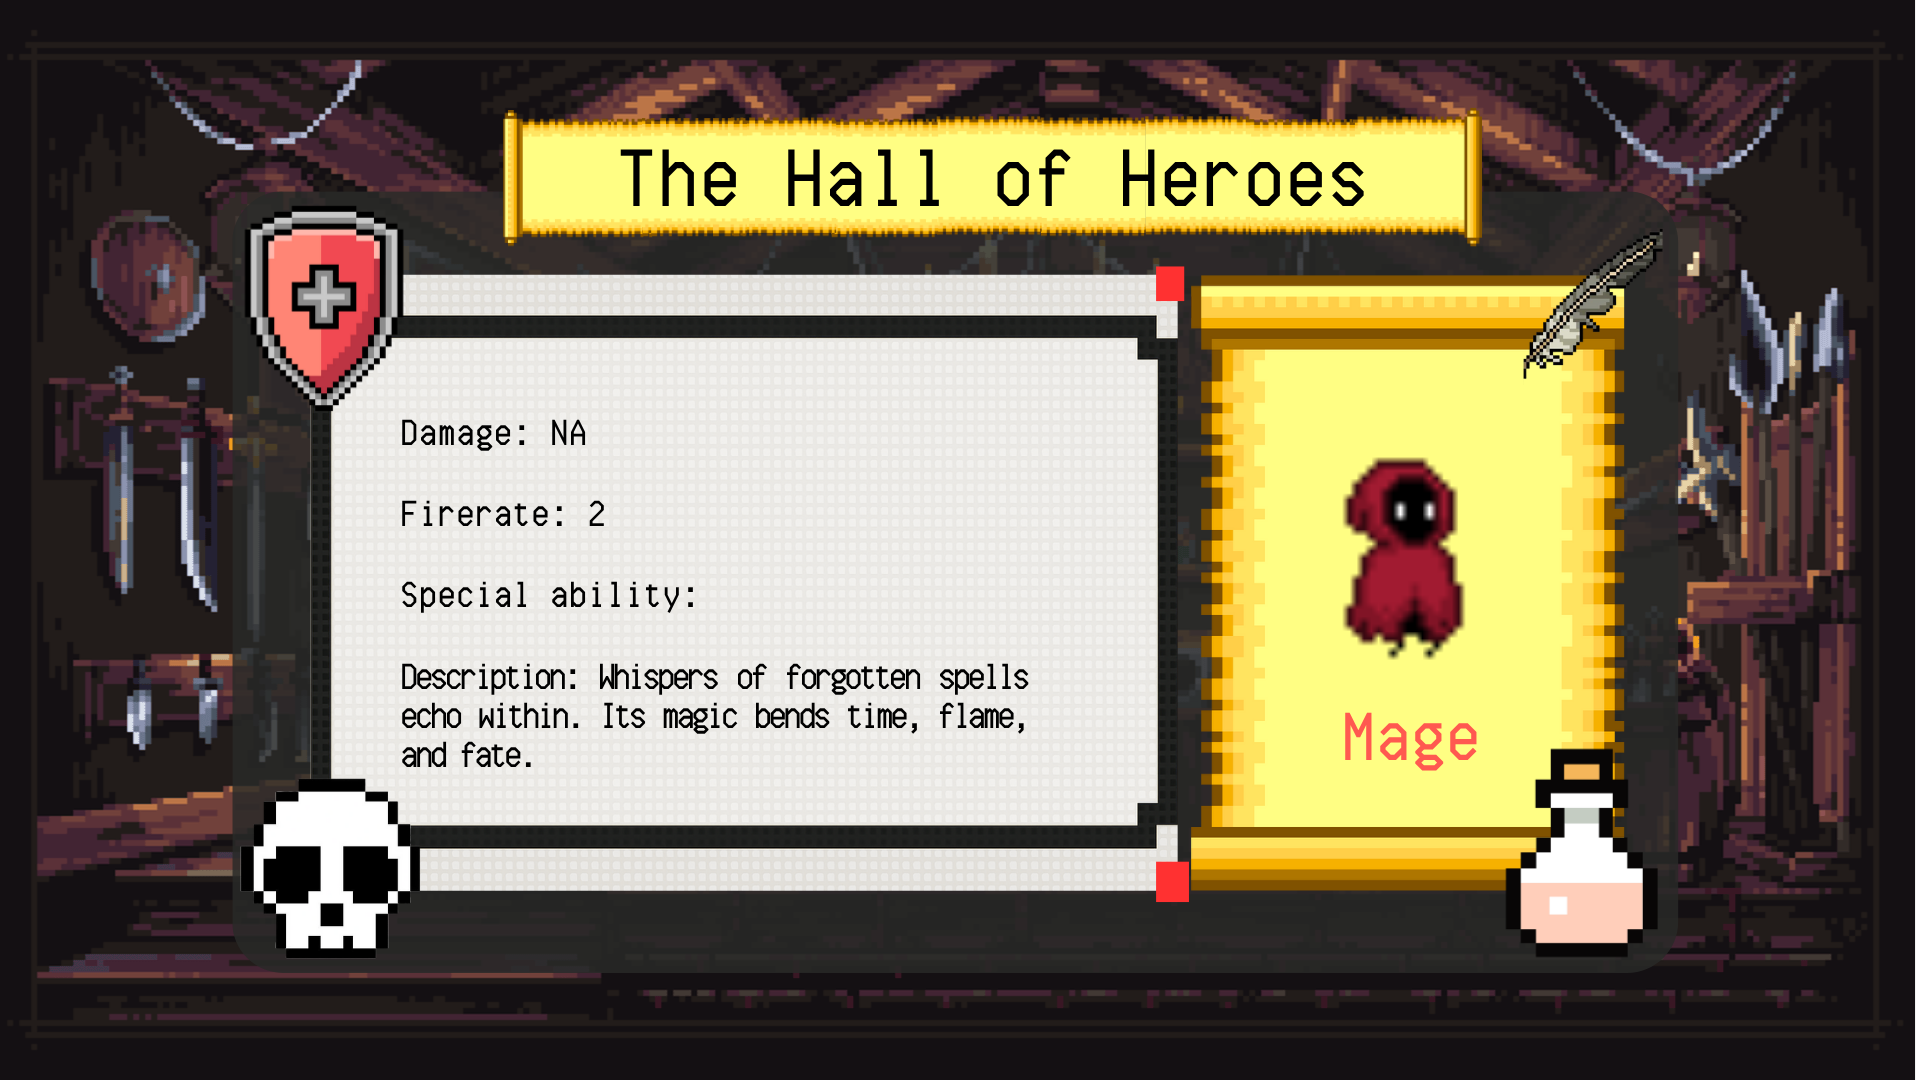
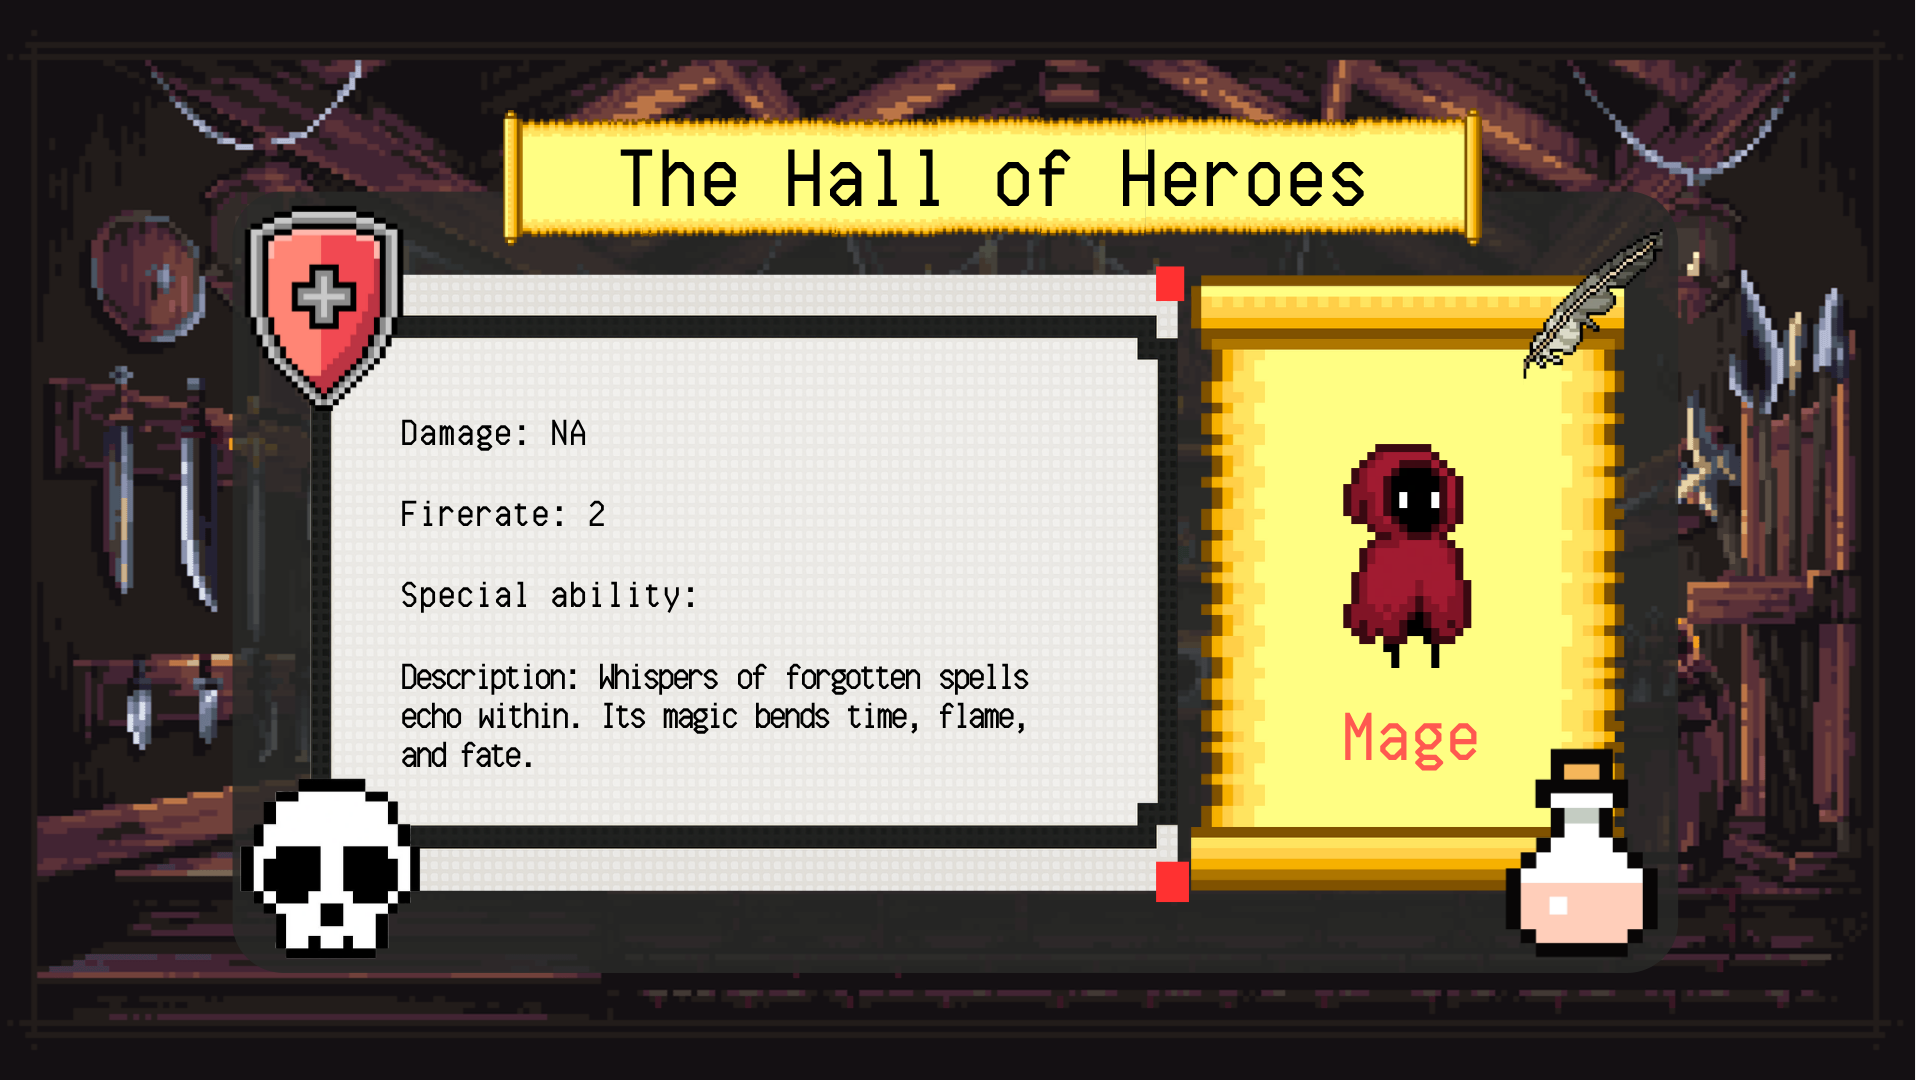
add coin

Changed region(s): [[0.6875, 0.3972, 0.7812, 0.6111]]

diff --git a/Tower-Defense-HCMUS-K24/src/SrcGameStates/GamePlay.cpp b/Tower-Defense-HCMUS-K24/src/SrcGameStates/GamePlay.cpp
@@ -31,6 +31,7 @@
 #include <fstream>
 #include <sstream>
 #include <iostream>
+EntityID moneyTextId = INVALID_ENTITY;
 
 GamePlay::GamePlay(const std::string& mapFilename) : mapFilename(mapFilename) {}
 
@@ -89,6 +90,23 @@ void GamePlay::onEnter(World& world)
 	TextComponent towerHeaderText(headerText, 32, fontPath, sf::Color::White, { 1750.f, 120.f }, true, sf::Color::Black, 5.f);
 	world.addComponent(towerHeader, towerHeaderText);
 
+    //money
+   
+    moneyTextId = world.createEntity();
+    registerEntity(moneyTextId);
+
+    std::string moneyStr = std::to_string(money);
+    TextComponent moneyText(moneyStr,70, fontPath, sf::Color::Yellow, { 95.f, 20.f }, true, sf::Color::Black, 4.f);
+    world.addComponent(moneyTextId, moneyText);
+
+    // coin Icon
+    EntityID coinIcon = world.createEntity();
+    registerEntity(coinIcon);
+    const string coinPath = "assets/Icon/Coin.png";
+    SpriteComponent coinSprite(coinPath, { 0.f, 5.f }, { 0.28f, 0.28f });
+    world.addComponent(coinIcon, coinSprite);
+
+
     //tower icon
     spawnTowerIcons(world);
     
@@ -97,7 +115,7 @@ void GamePlay::onEnter(World& world)
     EntityID exitButton = world.createEntity();
     registerEntity(exitButton);
     const string buttonPath = "assets/Icon/Left/B_Button68.png";
-    SpriteComponent spriteComp1(buttonPath, { 0.f, 0.f }, { 5.f, 5.f });
+    SpriteComponent spriteComp1(buttonPath, { 0.f, 980.f }, { 5.f, 5.f });
     spriteComp1.onClick = [](EntityID entityId, World& world)
         {
             std::cout << "[Exit Button] Clicked\n";
@@ -201,16 +219,24 @@ void GamePlay::handleEvent(World& world, sf::Event& event)
             EntityID tower = world.createEntity();
             TowerComponent towerComp(mousePos.x, mousePos.y, placingType, placingLevel);
             world.addComponent(tower, towerComp);
-            // Add a sprite for the tower
-            std::string spritePath = TowerComponent::getSpritePath(placingType, placingLevel);
-            const TowerDef& def = TowerComponent::getTowerDef(placingType);
-            float scale = def.scale[placingLevel];
-            SpriteComponent towerSprite(spritePath, mousePos, {scale, scale}); 
-            sf::FloatRect bounds = towerSprite.sprite.getLocalBounds();
-            towerSprite.sprite.setOrigin(bounds.width / 2.f, bounds.height / 2.f);
-            world.addComponent(tower, towerSprite);
-            isPlacingTower = false; // Exit placement mode
-            std::cout << "Placed tower at: " << mousePos.x << ", " << mousePos.y << std::endl;
+            if (money >= towerComp.cost)
+            {
+                // Add a sprite for the tower
+                std::string spritePath = TowerComponent::getSpritePath(placingType, placingLevel);
+                const TowerDef& def = TowerComponent::getTowerDef(placingType);
+                float scale = def.scale[placingLevel];
+                SpriteComponent towerSprite(spritePath, mousePos, { scale, scale });
+                sf::FloatRect bounds = towerSprite.sprite.getLocalBounds();
+                towerSprite.sprite.setOrigin(bounds.width / 2.f, bounds.height / 2.f);
+                world.addComponent(tower, towerSprite);
+                money -= towerComp.cost;
+                isPlacingTower = false; // Exit placement mode
+                std::cout << "Placed tower at: " << mousePos.x << ", " << mousePos.y << std::endl;
+            }
+            else
+            {
+                //Caution ??
+            }
         }
     }
 }
@@ -225,6 +251,7 @@ void GamePlay::update(World& world, float dt)
     if (enemiesToSpawn == 0 && currentWave < static_cast<int>(waveSizes.size()) && spawnTimer >= waveInterval)
     {
         spawnWave(world);
+        money += moneyPerWave;
 		cout << "[GamePlay] Spawning wave " << currentWave << " with " << waveSizes[currentWave] << " enemies.\n";
         
     }
@@ -279,6 +306,12 @@ void GamePlay::update(World& world, float dt)
             auto& sprite = world.getComponent<SpriteComponent>(towerId);
             sprite.sprite.setRotation(angleDeg);
         }
+    }
+
+    // update money
+    if (world.hasComponent<TextComponent>(moneyTextId)) {
+        auto& text = world.getComponent<TextComponent>(moneyTextId);
+        text.setString(std::to_string(money));
     }
 }
 
@@ -348,7 +381,9 @@ void GamePlay::spawnTowerIcons(World& world)
     {
         for (int lv = 0; lv < 2; ++lv)
         {
-
+            // Add cost for each tower
+            string cost = "20";
+            //
             EntityID iconEntity = world.createEntity();
             registerEntity(iconEntity);
 
@@ -359,30 +394,51 @@ void GamePlay::spawnTowerIcons(World& world)
             if(def.type == TowerComponent::TowerType::Archer && lv == 1)
             {
                 iconScale = 3.0f;
+                cost = "30";
 			}
 
             if (def.type == TowerComponent::TowerType::Mage && lv == 0)
             {
                 iconScale = 3.9f;
+                cost = "30";
             }
 
             if (def.type == TowerComponent::TowerType::Mage && lv == 1)
             {
                 iconScale = 2.6f;
+                cost = "40";
 			}
 
             if (def.type == TowerComponent::TowerType::Cannon && lv == 0)
             {
                 iconScale = 1.0f;
+                cost = "40";
             }
 
             if (def.type == TowerComponent::TowerType::Cannon && lv == 1)
             {
                 iconScale = 1.4f;
+                cost = "50";
             }
 
-            sf::Vector2f pos{ frameX + paddingX + spacingX * float(lv), frameY + paddingY + spacingY * float(idx) };
+            
 
+            // add cost sprite for each tower
+            sf::Vector2f posCost{ frameX + paddingX + spacingX * float(lv) + 55, frameY + paddingY + spacingY * float(idx) + 135 };
+            EntityID costTextId = world.createEntity();
+            registerEntity(costTextId);
+            const string fontPath = "assets/Font/Minecraft-Regular.otf";
+            TextComponent costText(cost, 28, fontPath, sf::Color::Yellow, posCost, true, sf::Color::Black, 2.5f);
+            world.addComponent(costTextId, costText);
+
+            sf::Vector2f posCoin{ frameX + paddingX + spacingX * float(lv) + 7, frameY + paddingY + spacingY * float(idx) + 128 };
+            EntityID coinIcon = world.createEntity();
+            registerEntity(coinIcon);
+            const string coinPath = "assets/Icon/Coin.png";
+            SpriteComponent coinSprite(coinPath, posCoin, { 0.12f, 0.12f });
+            world.addComponent(coinIcon, coinSprite);
+            //
+            sf::Vector2f pos{ frameX + paddingX + spacingX * float(lv), frameY + paddingY + spacingY * float(idx) };
             string iconPath = TowerComponent::getSpritePath(def.type, lv);
             iconComp.sprite = SpriteComponent(iconPath, pos, { iconScale, iconScale });
             iconComp.sprite.onClick = [this, def, lv](EntityID entityId, World& world) 

diff --git a/Tower-Defense-HCMUS-K24/src/SrcGameStates/Resource.cpp b/Tower-Defense-HCMUS-K24/src/SrcGameStates/Resource.cpp
@@ -21,7 +21,9 @@ void Resource::onEnter(World& world)
             "assets/ResourceSlides/slide1.png",
             "assets/ResourceSlides/slide2.png",
             "assets/ResourceSlides/slide3.png",
-            "assets/ResourceSlides/slide4.png"
+            "assets/ResourceSlides/slide4.png",
+            "assets/ResourceSlides/slide5.png",
+            "assets/ResourceSlides/slide6.png"
     };
 
     currentSlide = 0;
@@ -69,7 +71,11 @@ void Resource::onEnter(World& world)
             std::cout << "[Left Button] Clicked\n";
             auto& sound = world.getComponent<SoundComponent>(entityID);
             sound.sound->play();
-            if (currentSlide > 0) currentSlide--;
+            if (currentSlide <= 0) currentSlide = slides.size() - 1;
+            else
+            {
+                currentSlide--;
+            }
             updateSlide(world);
         };
     world.addComponent(leftButton, spriteLeftButton);
@@ -85,7 +91,11 @@ void Resource::onEnter(World& world)
             std::cout << "[Right Button] Clicked\n";
             auto& sound = world.getComponent<SoundComponent>(entityID);
             sound.sound->play();
-            if (currentSlide < slides.size() - 1) currentSlide++;
+            if (currentSlide >= slides.size() - 1) currentSlide = 0;
+            else
+            {
+                currentSlide++;
+            }
             updateSlide(world);
         };
     world.addComponent(rightButton, spriteRightButton);

diff --git a/Tower-Defense-HCMUS-K24/header/Components/TowerDef.h b/Tower-Defense-HCMUS-K24/header/Components/TowerDef.h
@@ -18,12 +18,15 @@ struct TowerDef
     float projectileRadius;    // for circle collision
     float projectileLength;    // for OBB (arrows)
     float scale[2];
+
+    //cost
+    int cost[2];
 };
 
 static constexpr TowerDef TOWER_DEFS[] = 
 {
-    //           type                 fireRate       projSpeed        damage         range       projRad  projLen
-    { TowerComponent::TowerType::Archer, {1.0f, 1.2f},  {300.0f, 350.0f},  {10.0f, 15.0f}, {200.0f, 220.0f}, 5.0f,    14.0f, {3.5f, 2.5f} },
-    { TowerComponent::TowerType::Mage,   {0.8f, 1.0f},  {250.0f, 300.0f},  {20.0f, 30.0f}, {180.0f, 200.0f}, 6.0f,     0.0f, {2.5f, 2.5f} },
-    { TowerComponent::TowerType::Cannon, {0.5f, 0.7f},  {200.0f, 250.0f},  {50.0f, 75.0f}, {220.0f, 240.0f}, 8.0f,     0.0f, {1.0f, 1.0f} },
+    //           type                 fireRate       projSpeed        damage         range       projRad  projLen                               cost
+    { TowerComponent::TowerType::Archer, {1.0f, 1.2f},  {300.0f, 350.0f},  {10.0f, 15.0f}, {200.0f, 220.0f}, 5.0f,    14.0f, {3.5f, 2.5f},      {20, 30} },
+    { TowerComponent::TowerType::Mage,   {0.8f, 1.0f},  {250.0f, 300.0f},  {20.0f, 30.0f}, {180.0f, 200.0f}, 6.0f,     0.0f, {2.5f, 2.5f},      {30, 40} },
+    { TowerComponent::TowerType::Cannon, {0.5f, 0.7f},  {200.0f, 250.0f},  {50.0f, 75.0f}, {220.0f, 240.0f}, 8.0f,     0.0f, {1.0f, 1.0f},      {40, 50} },
 };

diff --git a/Tower-Defense-HCMUS-K24/header/Components/TowerComponent.h b/Tower-Defense-HCMUS-K24/header/Components/TowerComponent.h
@@ -10,7 +10,6 @@ struct TowerDef;
 struct TowerComponent 
 {
     enum class TowerType : uint8_t { Archer = 0, Mage, Cannon };
-
     // Upgrade level: 0 = base, 1 = upgraded
     uint8_t     level = 0;
     TowerType   type = TowerType::Archer;
@@ -27,6 +26,7 @@ struct TowerComponent
     float       projectileRadius = 0.0f;
     float       projectileLength = 0.0f;
     float       lastShotTimer = 0.0f;
+    int         cost = 0;
 
     // Current target (entity ID)
     EntityID    target = INVALID_ENTITY;

diff --git a/Tower-Defense-HCMUS-K24/header/GameStates/GamePlay.h b/Tower-Defense-HCMUS-K24/header/GameStates/GamePlay.h
@@ -38,6 +38,13 @@ private:
     float enemySpawnInterval = 1.2f; // seconds between enemies
     std::vector<sf::Vector2f> currentWavePath;
 
+
+
+    //money control
+    int money = 0;
+    int moneyPerWave = 100;
+
+
 public:
     // construct by map filename or by index
     explicit GamePlay(const std::string& mapFilename);

diff --git a/Tower-Defense-HCMUS-K24/src/SrcComponents/TowerComponent.cpp b/Tower-Defense-HCMUS-K24/src/SrcComponents/TowerComponent.cpp
@@ -20,6 +20,7 @@ void TowerComponent::loadStats()
     projectileRadius = def.projectileRadius;
     projectileLength = def.projectileLength;
     lastShotTimer = 0.0f;
+    cost = def.cost[level];
 }
 
 const TowerDef& TowerComponent::getTowerDef(TowerType t)

diff --git a/Tower-Defense-HCMUS-K24/header/Components/UITextComponent.h b/Tower-Defense-HCMUS-K24/header/Components/UITextComponent.h
@@ -23,4 +23,5 @@ struct TextComponent
 	bool contains(Vector2f point) const;
 	bool tryClick(Vector2f mousePos, EntityID entityId, World& world);
 	void tryHover(Vector2f mousePos, EntityID entityId, World& world);
+	void setString(string newTxt);
 };

diff --git a/Tower-Defense-HCMUS-K24/src/SrcComponents/UITextComponent.cpp b/Tower-Defense-HCMUS-K24/src/SrcComponents/UITextComponent.cpp
@@ -43,3 +43,9 @@ void TextComponent::tryHover(Vector2f mousePos, EntityID entityId, World& world)
 	else
 		txt.setFillColor(originColor);
 }
+
+void TextComponent::setString(string newTxt)
+{
+	this->txt.setString(newTxt);
+}
+
